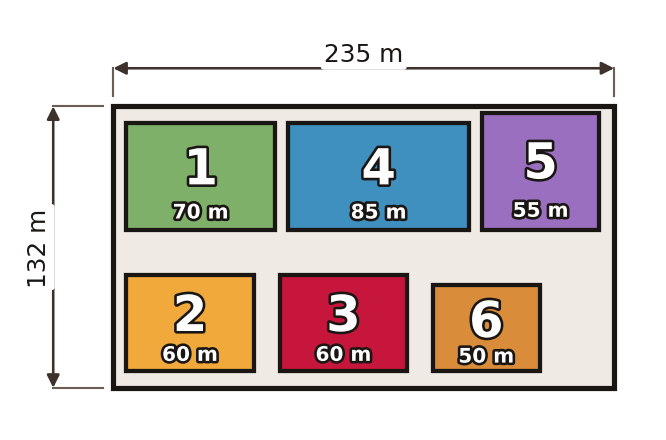
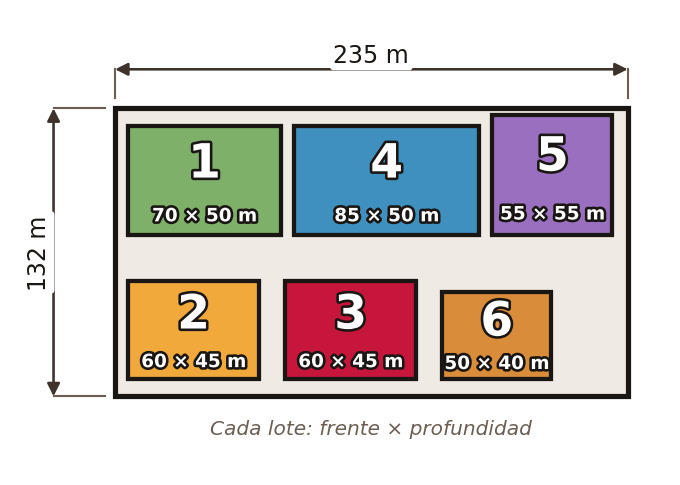
Mejoras P2 + renombrado basica + fixes auditoria (35 correcciones, cn_5_p1 q16 clave, doble-respuesta mat, figuras q10/q11)

Changed region(s): [[0.03, 0.0886, 0.9309, 0.9159]]

diff --git a/js/analisis.js b/js/analisis.js
@@ -221,8 +221,16 @@ const ESTRATEGIAS_POR_AREA = {
 };
 
 // Resolvers ---------------------------------------------------------------------------
+// Normaliza el nombre de básica (Lenguaje, Competencias Ciudadanas, Ciencias Naturales y
+// Educación Ambiental) al canónico de la banda media, para que las estrategias/narrativa resuelvan igual.
+const _ALIAS_AREA = {
+  'lenguaje': 'lectura crítica',
+  'competencias ciudadanas': 'sociales y ciudadanas',
+  'ciencias naturales y educación ambiental': 'ciencias naturales',
+};
 function _areaSlug(cuadernillo) {
-  return (cuadernillo && cuadernillo.area || '').toLowerCase();
+  const a = (cuadernillo && cuadernillo.area || '').toLowerCase().trim();
+  return _ALIAS_AREA[a] || a;
 }
 // Resuelve area_slug (matematicas, lectura_critica, ...) y grado del cuadernillo para
 // consultar la capa por grado. Tolerante: si falta algo, devuelve null y NO se consulta.

diff --git a/estudiante.html b/estudiante.html
@@ -189,7 +189,11 @@
       'Lectura Crítica':       { sigla: 'LC',  color: '#E11D48' },  // rojo IDEA
       'Sociales y Ciudadanas': { sigla: 'SC',  color: '#B5775E' },  // terracota
       'Ciencias Naturales':    { sigla: 'CN',  color: '#10B981' },  // verde
-      'Inglés':                { sigla: 'ING', color: '#7C3AED' }   // violeta
+      'Inglés':                { sigla: 'ING', color: '#7C3AED' },  // violeta
+      // Nombres de básica (3°-9°): mismo color/sigla que su contraparte de media
+      'Lenguaje':                              { sigla: 'LEN', color: '#E11D48' },
+      'Competencias Ciudadanas':               { sigla: 'CC',  color: '#B5775E' },
+      'Ciencias Naturales y Educación Ambiental': { sigla: 'CN', color: '#10B981' }
     };
 
     // === Render INMEDIATO de las tarjetas desde los cuadernillos (ya en caché local) ===

diff --git a/js/area-config.js b/js/area-config.js
@@ -11,10 +11,19 @@
 //   'matemáticas' | 'lectura crítica' | 'sociales y ciudadanas' |
 //   'ciencias naturales' | 'inglés'
 
+// Los cuadernillos de básica (3°-9°) usan el nombre de área del ICFES básica; para toda la
+// LÓGICA (config, estrategias, colores) se normalizan al nombre canónico de la banda media,
+// porque el marco DCE es el mismo. Solo cambia el NOMBRE VISIBLE, no la lógica.
+export const ALIAS_AREA_BASICA = {
+  'lenguaje': 'lectura crítica',
+  'competencias ciudadanas': 'sociales y ciudadanas',
+  'ciencias naturales y educación ambiental': 'ciencias naturales',
+};
+
 /** Normaliza el nombre del área a slug canónico. */
 export function areaSlug(cuadernillo) {
   const area = (cuadernillo && cuadernillo.area || '').toLowerCase().trim();
-  return area;
+  return ALIAS_AREA_BASICA[area] || area;
 }
 
 /**

diff --git a/js/export-excel.js b/js/export-excel.js
@@ -266,7 +266,9 @@ export async function exportarResultadoEstudianteExcel(aplicacion, cuadernillo) 
       ['ICFES ·Guía Inglés', 'Marco oficial alineado al MCER', 'https://www.icfes.gov.co/']
     ]
   };
-  const areaKey = (cuadernillo.area || '').toLowerCase();
+  const _aliasArea = { 'lenguaje': 'lectura crítica', 'competencias ciudadanas': 'sociales y ciudadanas', 'ciencias naturales y educación ambiental': 'ciencias naturales' };
+  const _ak0 = (cuadernillo.area || '').toLowerCase().trim();
+  const areaKey = _aliasArea[_ak0] || _ak0;
   const recursosArea = RECURSOS_POR_AREA[areaKey] || RECURSOS_POR_AREA['matemáticas'];
   const recs = [
     ['Recurso', 'Para qué', 'Enlace'],

diff --git a/js/db.js b/js/db.js
@@ -86,7 +86,7 @@ function validarCuadernillo(c) {
 // --- Siembra inicial (solo si la base está vacía) ------------------------------------
 // Versión de contenido: súbela cuando cambien los cuadernillos/instituciones para que un
 // visitante que ya abrió el demo re-siembre automáticamente (sin tener que limpiar el navegador).
-const SEED_VERSION = '2026-07-17-dificultad-p1';
+const SEED_VERSION = '2026-07-21-mejoras-p2-renombrado';
 let _sembrado = null;
 async function sembrarSiVacio() {
   let verPrev = null;
